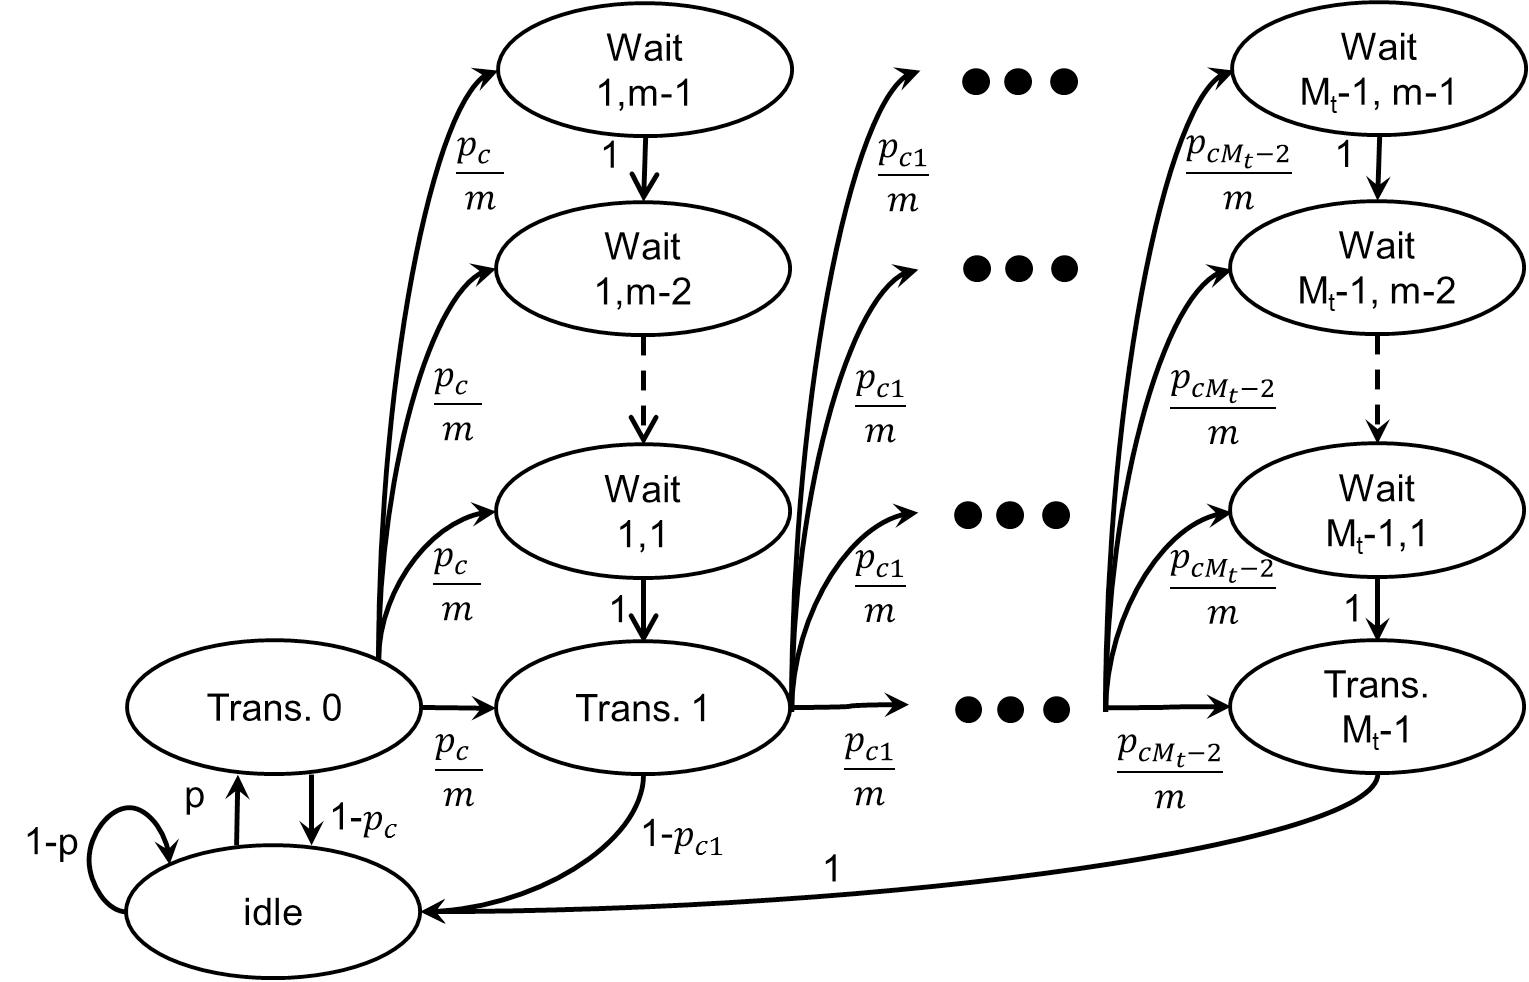
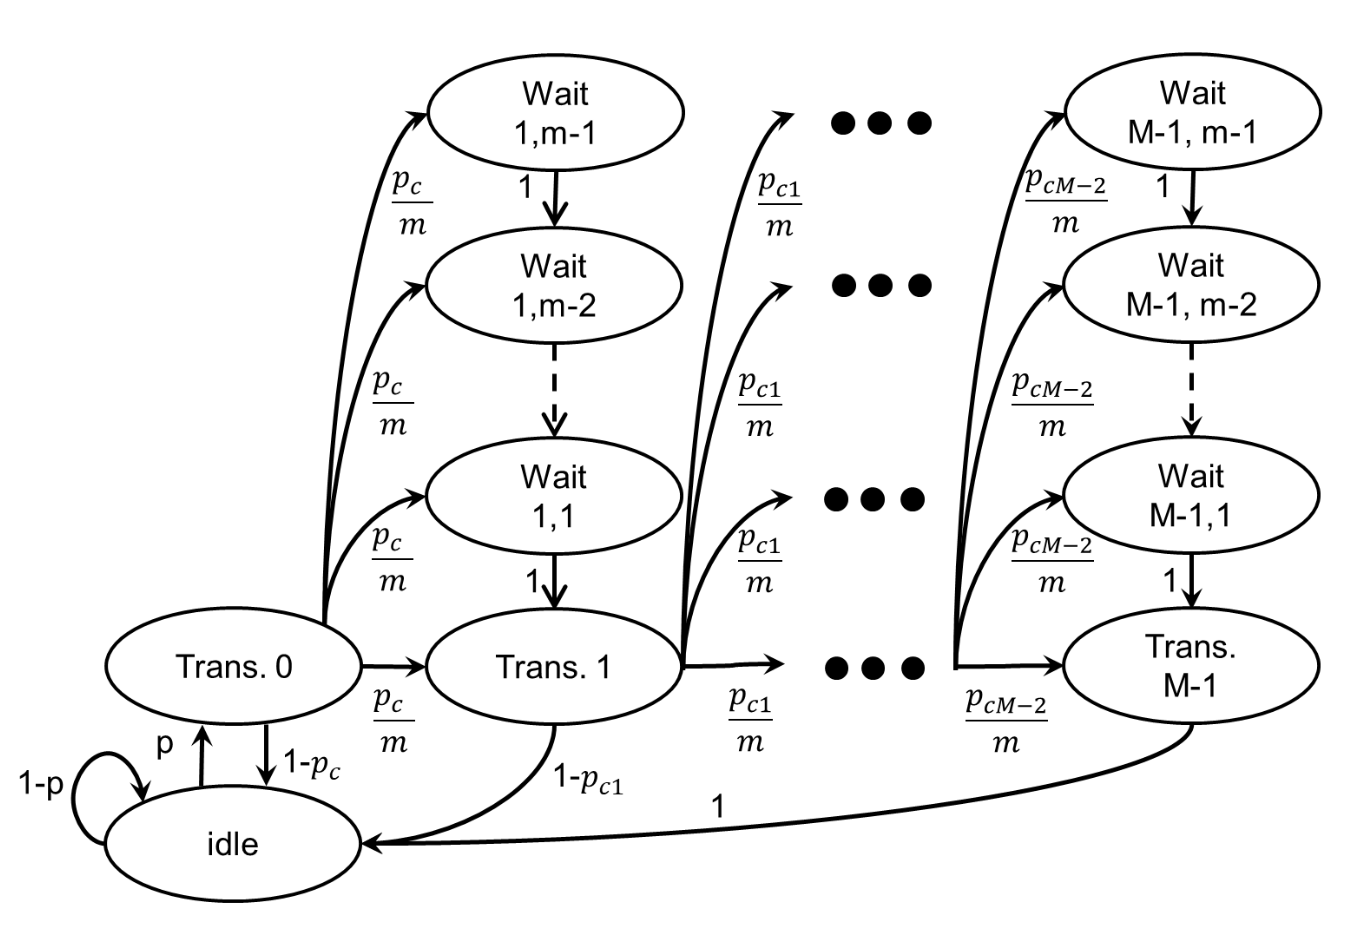
Added figures for the slides 2019_04__Presentation_IEEE_WCNC__MoTION_Workshop

diff --git a/2019_04__Presentation_IEEE_WCNC__MoTION_Workshop/slides.md b/2019_04__Presentation_IEEE_WCNC__MoTION_Workshop/slides.md
@@ -2,14 +2,18 @@
 $theme: default
 $size: 4:3
 page_number: true
-footer: Upper-Confidence Bound for Channel Selection inLPWA Networks with Retransmissions
+footer: Upper-Confidence Bound for Channel Selection in LPWA Networks with Retransmissions
 -->
 
 <link rel="stylesheet" type="text/css" href="../common/marp-naereen.css" />
 
-### *IEEE WCNC 2019*: "**Upper-Confidence Bound for Channel Selection inLPWA Networks with Retransmissions**"
+### *IEEE WCNC 2019*: "**Upper-Confidence Bound for Channel Selection in LPWA Networks with Retransmissions**"
+
+<br>
 
 - *Date* :date: : $14$th of April $2019$
+
+<br>
 
 - *Who:* [Lilian Besson](https://GitHub.com/Naereen/slides/) :wave: , PhD Student in France, co-advised by
 
@@ -34,7 +38,7 @@ footer: Upper-Confidence Bound for Channel Selection inLPWA Networks with Retran
 ## 1. Motivations
 ## 2. System Model
 ## 3. Multi-Armed Bandit (MAB) Model and Algorithms
-## 4. GNU Radio Implementation
+## 4. Proposed Heuristics
 ## 5. Results
 
 ### Please :pray:
@@ -72,21 +76,18 @@ Gateway
 
 ---
 
-# 2. System Model
+# 2. Markov Chain of our System Model
 
-![bg original 80%](plots/system_model.png)
+![bg original 75%](plots/Markov_model.png)
 
 ---
 
 # Hypotheses
 
-1. We focus on **one gateway**
-
-2. Different IoT objects using the same standard are able to run a low-cost learning algorithm on their embedded CPU
-
-3. The spectrum occupancy generated by the rest of the environment is **assumed to be stationary**
-
-4. And **non uniform traffic**: some channels are more occupied than others.
+1. Blabla
+1. Blabla
+1. Blabla
+1. Blabla
 
 ---
 
@@ -101,8 +102,8 @@ Gateway
 
 # 3.1. Multi-Armed Bandits Model
 - $K \geq 2$ resources (*e.g.*, channels), called **arms**
-- Each time slot $t=1,\ldots,T$, you must choose one arm, denoted $A(t)\in\{1,\ldots,K\}$
-- You receive some reward $r(t) \sim \nu_k$ when playing $k = A(t)$
+- Each time slot $t=1,\ldots,T$, you must choose one arm, denoted $C(t)\in\{1,\ldots,K\}$
+- You receive some reward $r(t) \sim \nu_k$ when playing $k = C(t)$
 - **Goal:** maximize your sum reward $\sum\limits_{t=1}^{T} r(t)$, or expected $\sum\limits_{t=1}^{T} \mathbb{E}[r(t)]$
 - Hypothesis: rewards are stochastic, of mean $\mu_k$.
   Example: Bernoulli distributions.
@@ -114,20 +115,20 @@ Simple but good model for **exploration/exploitation** dilemma.
 
 # 3.2. Multi-Armed Bandits Algorithms
 ### Often "*index* based"
-- Keep *index* $I_k(t) \in \mathbb{R}$ for each arm $k=1,\ldots,K$
-- Always play $A(t) = \arg\max I_k(t)$
-- $I_k(t)$ should represent our belief of the *quality* of arm $k$ at time $t$
+- Keep *index* $U_k(t) \in \mathbb{R}$ for each arm $k=1,\ldots,K$
+- Always use channel $C(t) = \arg\max U_k(t)$
+- $U_k(t)$ should represent our belief of the *quality* of arm $k$ at time $t$
 
 ### Example: "Follow the Leader"
 - $X_k(t) := \sum\limits_{s < t} r(s) \bold{1}(A(s)=k)$ sum reward from arm $k$
 - $N_k(t) := \sum\limits_{s < t} \bold{1}(A(s)=k)$ number of samples of arm $k$
-- And use $I_k(t) = \hat{\mu}_k(t) := \frac{X_k(t)}{N_k(t)}$.
+- And use $U_k(t) = \hat{\mu}_k(t) := \frac{X_k(t)}{N_k(t)}$.
 
 ---
 
-## *Upper Confidence Bounds* algorithm (UCB)
-- Instead of using $I_k(t) = \frac{X_k(t)}{N_k(t)}$, add an *exploration term*
-$$ I_k(t) = \frac{X_k(t)}{N_k(t)} + \sqrt{\frac{\alpha \log(t)}{2 N_k(t)}} $$
+# *Upper Confidence Bounds* algorithm (UCB)
+- Instead of using $U_k(t) = \frac{X_k(t)}{N_k(t)}$, add an *exploration term*
+$$ U_k(t) = \frac{X_k(t)}{N_k(t)} + \sqrt{\alpha \frac{\log(t)}{N_k(t)}} $$
 
 ### Parameter $\alpha$: tradeoff exploration *vs* exploitation
 - Small $\alpha$: focus more on **exploitation**,
@@ -136,7 +137,55 @@ $$ I_k(t) = \frac{X_k(t)}{N_k(t)} + \sqrt{\frac{\alpha \log(t)}{2 N_k(t)}} $$
 
 ---
 
-# 4. XXX
+# *Upper Confidence Bounds* algorithm (UCB)
+
+![bg original 90%](plots/Algorithm1_UCB.png)
+
+---
+
+# 4. We Study Different Heuristics (5)
+
+- They all use one UCB algorithm to decide the channel to use for first transmissions of any message
+
+- They use different approaches for retransmissions:
+  - "==Only UCB==": use same $\mathrm{UCB}$ for retransmissions,
+  - "==Random==": uniformly random retransmissions,
+  - "==UCB==": use another $\mathrm{UCB}^r$ for retransmissions
+	(no matter the channel for first transmission),
+  - "==K-UCB==": use $K$ different $\mathrm{UCB}^j$ for retransmission after a first transmission on channel $j\in\{1,\cdots,K\}$,
+  - "==Delayed UCB==": use another $\mathrm{UCB}^d$ for retransmissions, but launched after a delay $\Delta$.
+
+---
+
+# 4.0. Only UCB
+
+Use the same $\mathrm{UCB}$ to decide the channel to use for any transmissions, regardless if it's a first transmission or a retransmission of a message.
+
+![90%](plots/Algorithm1_UCB.png)
+
+---
+
+# 4.1. UCB + Random Retransmissions
+
+![bg original 90%](plots/Algorithm2_UCB_RandomRetransmission.png)
+
+---
+
+# 4.2. UCB + a single UCB for Retransmissions
+
+![bg original 90%](plots/Algorithm3_UCB_UCBRetransmission.png)
+
+---
+
+# 4.3. UCB + $K$ UCB for Retransmissions
+
+![bg original 85%](plots/Algorithm4_UCB_KUCBRetransmission.png)
+
+---
+
+# 4.4. UCB + Random Retransmission
+
+![bg original 85%](plots/Algorithm5_UCB_DelayedUCBRetransmission.png)
 
 ---
 
@@ -146,9 +195,31 @@ XXX
 
 ---
 
-# Illustration
+# 5.1. First Experiment
 
-![bg original 75%](plots/XXX.png)
+- Blabla
+- Blabla
+- Blabla
+- Blabla
+
+---
+
+![bg original 80%](plots/ResultsUCB.png)
+
+---
+
+# 5.2. Second Experiment
+
+- Blabla
+- Blabla
+- Blabla
+- Blabla
+
+---
+
+---
+
+![bg original 80%](plots/ResultsUCB2.png)
 
 ---
 
@@ -168,23 +239,14 @@ XXX
 
 # 6. Future works
 
+- Implement our proposed approach in a real-world demo using USRP boards
 - Study a real IoT LPWAN protocol (e.g., LoRa)
-- Implement our proposed approach in a large scale realistic
 
-### We are exploring these directions:
-- Extending the model for ALOHA-like retransmissions
-  ($\hookrightarrow$ [`HAL.Inria.fr/hal-02049824`](https://hal.inria.fr/hal-02049824) at MoTION Workshop @ WCNC)
-- IoTlligent project @ Rennes
-- ... ==Christophe?==
-
----
-
-# 6. Conclusion
+# More ?
 
 ### $\hookrightarrow$ See our paper: [`HAL.Inria.fr/hal-02049824`](https://hal.inria.fr/hal-02049824)
 
-### $\hookrightarrow$ See video of the demo: [`YouTu.be/HospLNQhcMk`](https://youtu.be/HospLNQhcMk)
-
+### Please ask questions !
 
 <br>
 

diff --git a/2019_04__Presentation_IEEE_WCNC__Demo_ICT_2018/slides.md b/2019_04__Presentation_IEEE_WCNC__Demo_ICT_2018/slides.md
@@ -9,7 +9,11 @@ footer: GNU Radio Implementation of Multi-Armed bandits Learning for Internet-of
 
 ### *IEEE WCNC 2019*: "**GNU Radio Implementation of Multi-Armed bandits Learning for Internet-of-things Networks**"
 
+<br>
+
 - *Date* :date: : $17$th of April $2019$
+
+<br>
 
 - *Who:* [Lilian Besson](https://GitHub.com/Naereen/slides/) :wave: , PhD Student in France, co-advised by
 
